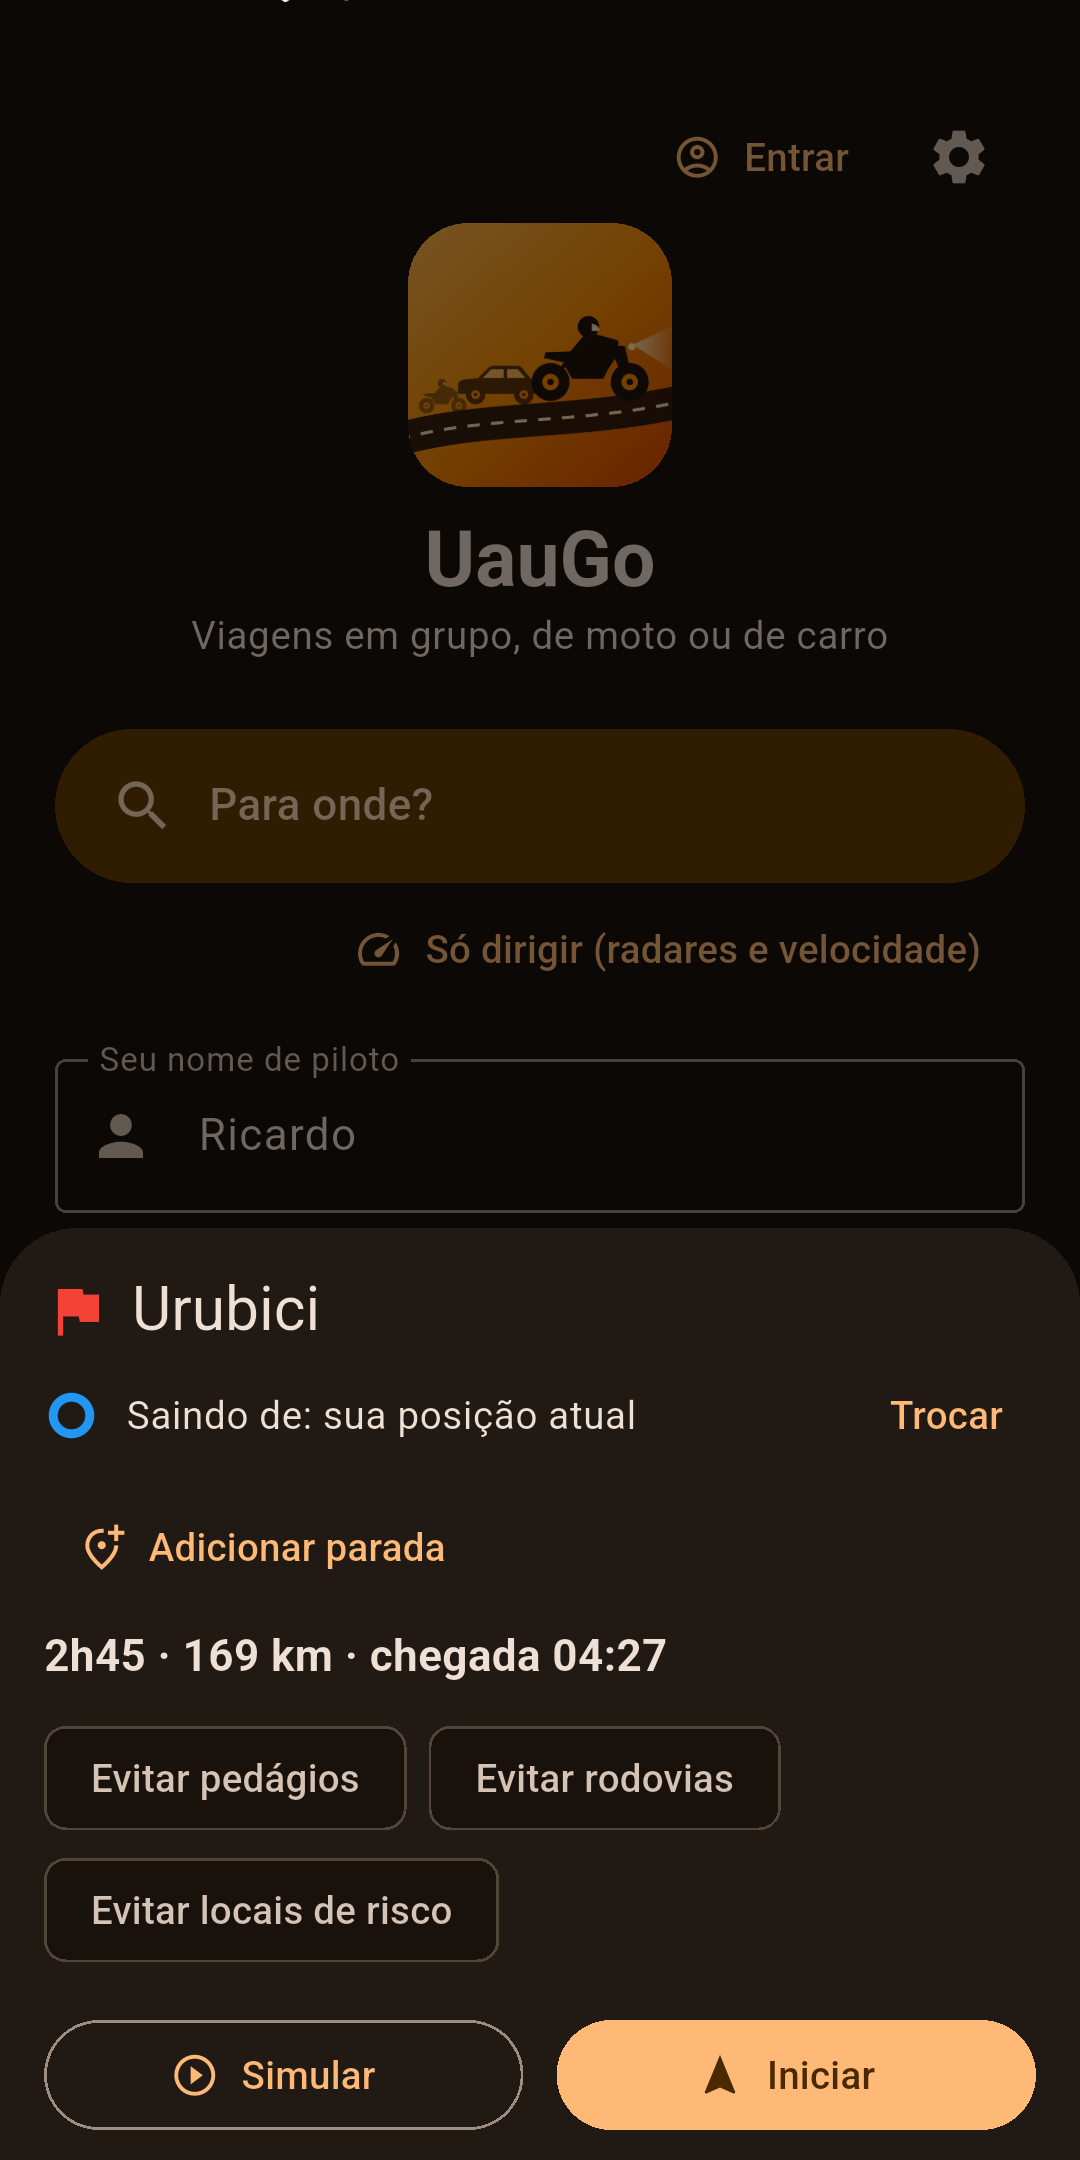
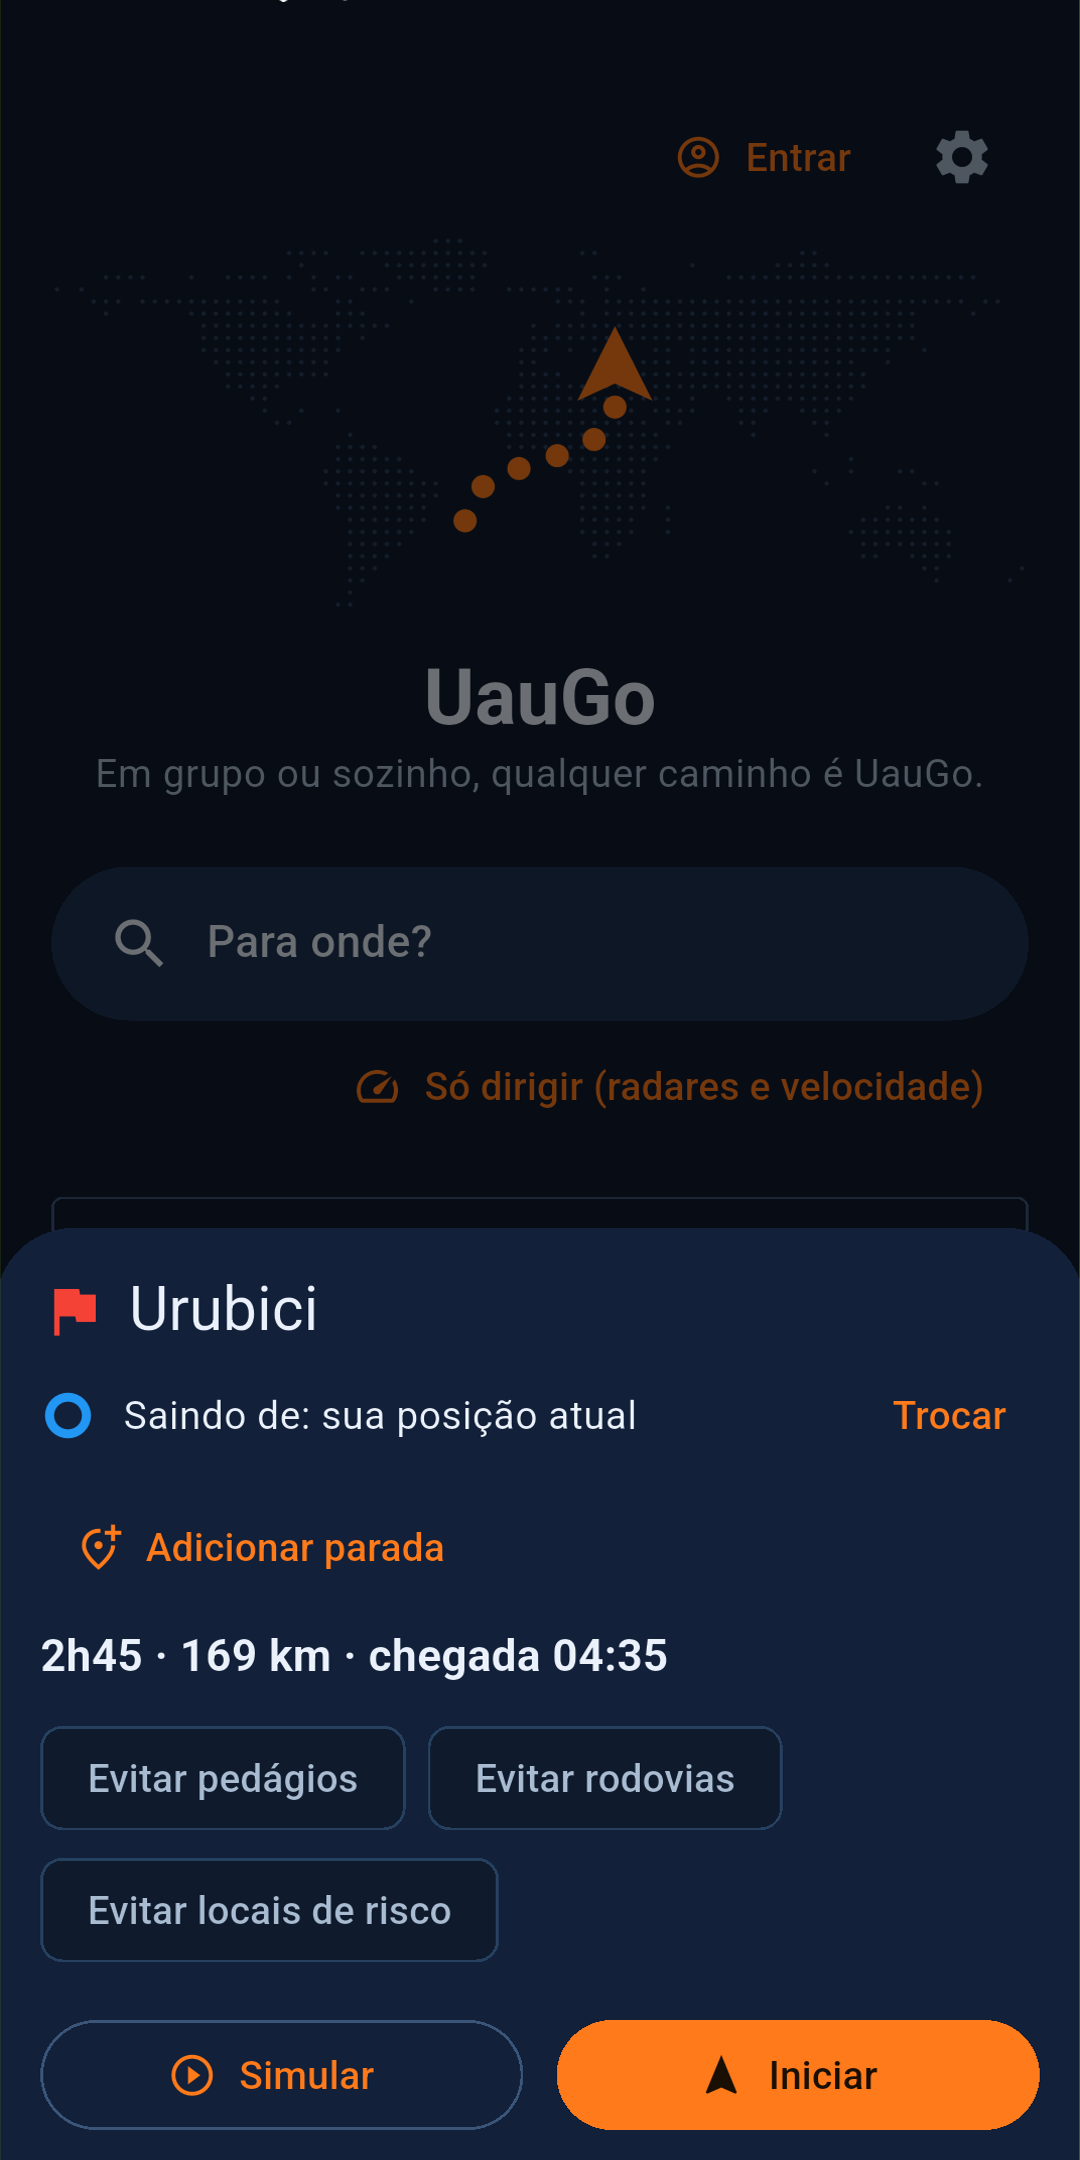
Slogan 'qualquer caminho é UauGo'; velocímetro na paleta nova; capturas da loja refeitas

diff --git a/lib/screens/home_screen.dart b/lib/screens/home_screen.dart
@@ -320,7 +320,7 @@ class _HomeScreenState extends State<HomeScreen> {
                           builder: (_) => const SettingsScreen())),
                 ),
               ]),
-              // Marca sobre o mapa-múndi pontilhado: "em qualquer estrada".
+              // Marca sobre o mapa-múndi pontilhado: "qualquer caminho".
               // (scripts/gerar-mapa-pontilhado.py e scripts/gerar-icone.py)
               SizedBox(
                 height: 150,

diff --git a/lib/widgets/speedometer.dart b/lib/widgets/speedometer.dart
@@ -31,7 +31,7 @@ class Speedometer extends StatelessWidget {
     final (bg, fg) = switch (level) {
       SpeedLevel.over => (Colors.red.shade700, Colors.white),
       SpeedLevel.overEstimated => (Colors.amber.shade700, Colors.black),
-      SpeedLevel.normal => (const Color(0xEE1E1A16), Colors.white),
+      SpeedLevel.normal => (const Color(0xEE0F1B2D), Colors.white), // azul-marinho da marca
     };
     return GestureDetector(
       onTap: onTap,

diff --git a/lib/brand.dart b/lib/brand.dart
@@ -7,4 +7,4 @@
 // ============================================================================
 
 /// Slogan do app.
-const appSlogan = 'Em grupo ou sozinho, qualquer estrada é UauGo.';
+const appSlogan = 'Em grupo ou sozinho, qualquer caminho é UauGo.';

diff --git a/scripts/gerar-arte-loja.py b/scripts/gerar-arte-loja.py
@@ -47,7 +47,7 @@ dark = (234, 241, 250)  # texto claro sobre o marinho
 muted = (169, 187, 209)
 d.text((450, 120), "UauGo", font=title, fill=dark)
 d.text((455, 292), "Em grupo ou sozinho,", font=sub, fill=muted)
-d.text((455, 340), "qualquer estrada é UauGo.", font=sub, fill=muted)
+d.text((455, 340), "qualquer caminho é UauGo.", font=sub, fill=muted)
 d.rounded_rectangle([458, 268, 578, 276], radius=4, fill=(255, 122, 26))  # traço laranja
 g.save(os.path.join(OUT, "destaque-1024x500.png"))
 print("ok:", os.listdir(OUT))

diff --git a/loja/textos-google-play.md b/loja/textos-google-play.md
@@ -7,7 +7,7 @@ UauGo: viagem em grupo
 Viaje em grupo de moto ou carro: rota, radares, alertas, SOS e clube.
 
 ## Descrição completa (máx. 4000)
-Em grupo ou sozinho, qualquer estrada é UauGo.
+Em grupo ou sozinho, qualquer caminho é UauGo.
 
 O UauGo mostra no mapa, em tempo real, onde está cada pessoa do seu grupo, avisa radares e perigos na estrada e guia o caminho por voz, curva a curva.
 

diff --git a/README.md b/README.md
@@ -1,4 +1,4 @@
-# 🏍🚗 UauGo — em grupo ou sozinho, qualquer estrada é UauGo
+# 🏍🚗 UauGo — em grupo ou sozinho, qualquer caminho é UauGo
 
 App Flutter (iPhone + Android) com Google Maps e Firebase.
 Desenvolvido por **Ricardo Reis / HelpAITech**.
